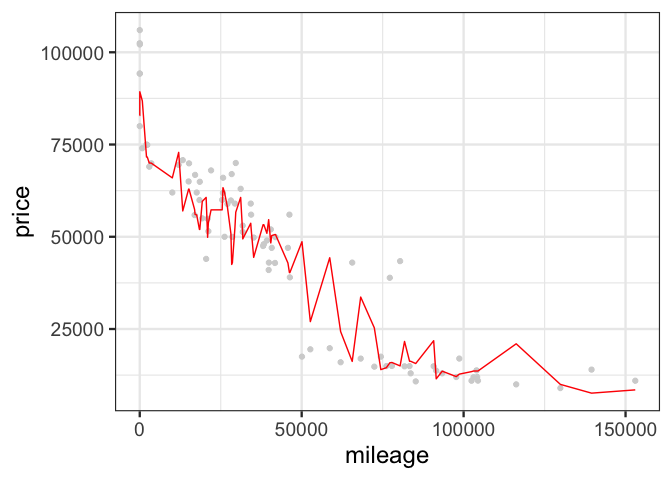
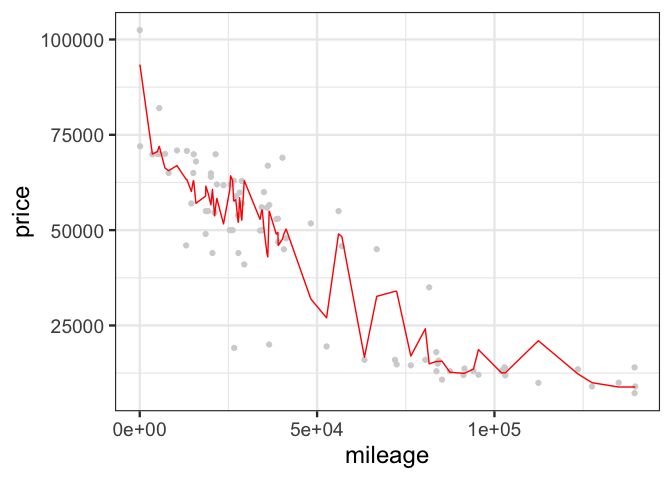
found min

diff --git a/Exercise_2.md b/Exercise_2.md
@@ -13,33 +13,35 @@ a markdown file (.md) suitable for publishing to GitHub is generated.
 
 ![](Exercise_2_files/figure-gfm/sclass_350-1.png)<!-- -->
 
-    ## [1] 10320.69
+    ## [1] 10449.63
 
 ![](Exercise_2_files/figure-gfm/sclass_350-2.png)<!-- -->
 
-    ## [1] 9306.616
+    ## [1] 10453.46
 
 ![](Exercise_2_files/figure-gfm/sclass_350-3.png)<!-- -->
 
-    ## [1] 9025.594
+    ## [1] 10205.82
 
 ![](Exercise_2_files/figure-gfm/sclass_350-4.png)<!-- -->
 
-    ## [1] 9537.15
+    ## [1] 10000.8
 
 ![](Exercise_2_files/figure-gfm/sclass_350-5.png)<!-- -->
 
-    ## [1] 10049.23
+    ## [1] 9941.392
 
 ![](Exercise_2_files/figure-gfm/sclass_350-6.png)<!-- -->
 
-    ## [1] 12436.6
+    ## [1] 11122.99
 
 ![](Exercise_2_files/figure-gfm/sclass_350-7.png)<!-- -->
 
-    ## [1] 20001.48
+    ## [1] 19109.21
 
 ![](Exercise_2_files/figure-gfm/sclass_350-8.png)<!-- -->
+
+    ## [1] 9860.415
 
 # sclass\_65
 
@@ -47,30 +49,32 @@ a markdown file (.md) suitable for publishing to GitHub is generated.
 
 ![](Exercise_2_files/figure-gfm/sclass_65-1.png)<!-- -->
 
-    ## [1] 21144.36
+    ## [1] 29741.1
 
 ![](Exercise_2_files/figure-gfm/sclass_65-2.png)<!-- -->
 
-    ## [1] 20142.84
+    ## [1] 26869.01
 
 ![](Exercise_2_files/figure-gfm/sclass_65-3.png)<!-- -->
 
-    ## [1] 20570.59
+    ## [1] 25077.47
 
 ![](Exercise_2_files/figure-gfm/sclass_65-4.png)<!-- -->
 
-    ## [1] 20151.27
+    ## [1] 24355.71
 
 ![](Exercise_2_files/figure-gfm/sclass_65-5.png)<!-- -->
 
-    ## [1] 20827.62
+    ## [1] 31952.69
 
 ![](Exercise_2_files/figure-gfm/sclass_65-6.png)<!-- -->
 
-    ## [1] 38314.79
+    ## [1] 46368.29
 
 ![](Exercise_2_files/figure-gfm/sclass_65-7.png)<!-- -->
 
-    ## [1] 75308.98
+    ## [1] 76001.5
 
 ![](Exercise_2_files/figure-gfm/sclass_65-8.png)<!-- -->
+
+    ## [1] 24355.71
